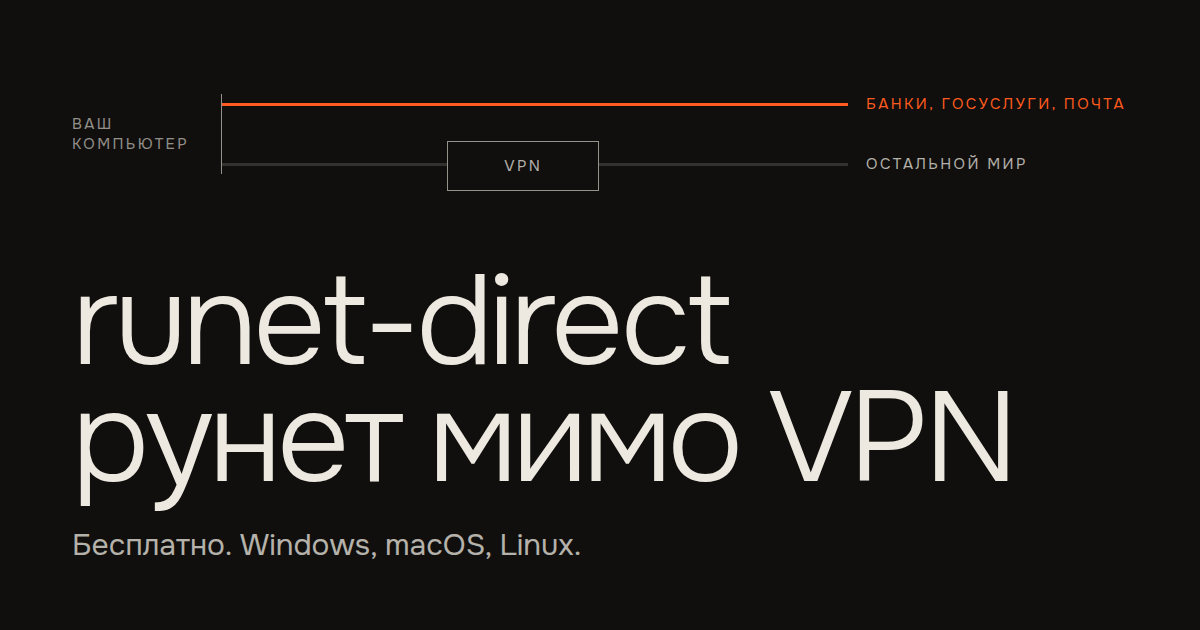
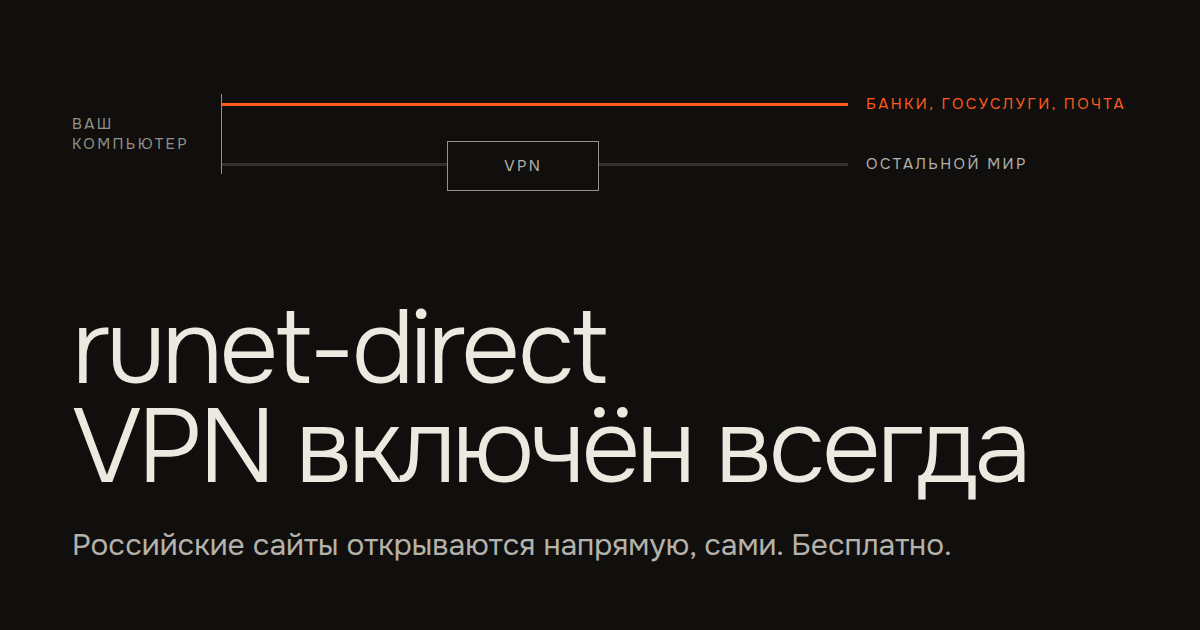
Lead with the real benefit: keep the VPN on all the time
The page, README, installer text, preview image and repository description
now say what the user gains: no switching the VPN off and on, no remembering
its state; foreign sites use the VPN, Russian sites open directly by themselves.

Changed region(s): [[0.0617, 0.4222, 0.8633, 0.8143], [0.0617, 0.8444, 0.8017, 0.9048]]

diff --git a/docs/site/index.html b/docs/site/index.html
@@ -3,8 +3,8 @@
 <head>
 <meta charset="utf-8">
 <meta name="viewport" content="width=device-width, initial-scale=1">
-<title>runet-direct — рунет мимо VPN</title>
-<meta name="description" content="Банки, Госуслуги, маркетплейсы и почта открываются напрямую, остальное идёт через VPN. Работает с любым VPN. Windows, macOS, Linux. Бесплатно, открытый код.">
+<title>runet-direct — VPN включён всегда, российские сайты работают</title>
+<meta name="description" content="Включили VPN и забыли: зарубежные сайты идут через VPN, российские напрямую. Банки, Госуслуги и почта работают сами. Windows, macOS, Linux. Бесплатно, открытый код.">
 <link rel="canonical" href="https://iresultman.github.io/runet-direct/">
 <link rel="alternate" hreflang="ru" href="https://iresultman.github.io/runet-direct/">
 <link rel="alternate" hreflang="en" href="https://iresultman.github.io/runet-direct/en/">
@@ -12,8 +12,8 @@
 <link rel="icon" href="favicon.svg" type="image/svg+xml">
 <meta name="theme-color" content="#100f0d">
 <meta property="og:type" content="website">
-<meta property="og:title" content="runet-direct — рунет мимо VPN">
-<meta property="og:description" content="Российские сайты открываются напрямую, остальное идёт через ваш VPN. Бесплатно, для Windows, macOS и Linux.">
+<meta property="og:title" content="runet-direct — VPN включён всегда, российские сайты работают">
+<meta property="og:description" content="Зарубежные сайты идут через VPN, российские напрямую. VPN не нужно выключать. Бесплатно, для Windows, macOS и Linux.">
 <meta property="og:url" content="https://iresultman.github.io/runet-direct/">
 <meta property="og:image" content="https://iresultman.github.io/runet-direct/og.png">
 <meta property="og:locale" content="ru_RU">
@@ -59,8 +59,8 @@
   </div>
 
   <div class="hero__copy">
-    <h1 id="top-title" class="rise" style="--d:420ms">runet-direct<br>рунет мимо VPN</h1>
-    <p class="lead rise" style="--d:900ms">Банки, Госуслуги и почта открываются напрямую. Всё остальное идёт через ваш VPN, какой бы он ни был.</p>
+    <h1 id="top-title" class="rise" style="--d:420ms">runet-direct<br>VPN включён всегда</h1>
+    <p class="lead rise" style="--d:900ms">Зарубежное идёт через VPN, российское напрямую. Банки, Госуслуги и почта открываются сами, VPN выключать не нужно.</p>
     <div class="cta rise" style="--d:1040ms">
       <a id="cta" class="btn btn--fill" href="#install"
          data-label-windows="Скачать для Windows" data-href-windows="https://github.com/iResultMan/runet-direct/releases/latest/download/runet-direct-setup-x86_64.exe"
@@ -75,6 +75,23 @@
       </a>
       <span class="note">Бесплатно, открытый код, 1,4 МБ</span>
     </div>
+  </div>
+</section>
+
+<section id="why" aria-labelledby="why-title">
+  <div class="split">
+    <div>
+      <h2 id="why-title" class="rise">Переключать VPN больше не нужно</h2>
+      <div class="prose rise" style="--d:100ms">
+        <p>Обычно приходится выбирать. С включённым VPN не открываются банки и Госуслуги или просят лишнее подтверждение. С выключенным не работают зарубежные сайты. Остаётся переключать VPN туда и обратно и помнить, что сейчас включено.</p>
+        <p>С runet-direct VPN включён всегда. Служба сама разводит трафик: российские адреса идут напрямую, всё остальное через VPN.</p>
+      </div>
+    </div>
+    <dl class="facts rise" style="--d:200ms;margin-top:0">
+      <div><dt>Банки, Госуслуги, почта</dt><dd>Открываются сразу, как при обычном интернете. VPN выключать не нужно.</dd></div>
+      <div><dt>Зарубежные сайты</dt><dd>Идут через VPN всё время, а не только пока вы не отключили его ради банка.</dd></div>
+      <div><dt>Что делаете вы</dt><dd>Ничего. Не нужно ни переключать VPN, ни помнить, включён ли он.</dd></div>
+    </dl>
   </div>
 </section>
 
@@ -183,6 +200,8 @@ Health:   <span class="ok">OK</span></pre>
 <section id="faq" aria-labelledby="faq-title">
   <h2 id="faq-title" class="rise">Вопросы</h2>
   <div class="faq rise" style="--d:100ms">
+    <details><summary>Нужно ли что-то включать и выключать вместе с VPN?</summary><div>
+      <p>Нет. Служба работает постоянно и не зависит от того, включён ли VPN в этот момент. Включили VPN один раз и забыли: российские сайты работают напрямую, остальные через него.</p></div></details>
     <details><summary>Безопасно ли это?</summary><div>
       <p>Программа не читает и не перехватывает трафик. Она только добавляет маршруты в таблицу системы и убирает их, когда вы её удаляете. Код открыт и лежит под лицензией MIT. У файлов релиза есть контрольные суммы и подтверждение происхождения сборки.</p></div></details>
     <details><summary>Куда программа ходит в сеть?</summary><div>

diff --git a/docs/site/en/index.html b/docs/site/en/index.html
@@ -3,8 +3,8 @@
 <head>
 <meta charset="utf-8">
 <meta name="viewport" content="width=device-width, initial-scale=1">
-<title>runet-direct — Russian sites outside your VPN</title>
-<meta name="description" content="Russian banks, government portals, marketplaces and mail open directly; everything else keeps using your VPN. Works with any VPN. Windows, macOS, Linux. Free and open source.">
+<title>runet-direct — keep your VPN on, Russian sites still work</title>
+<meta name="description" content="Turn the VPN on and forget it: foreign sites go through the VPN, Russian sites go direct. Banks, Gosuslugi and mail just work. Windows, macOS, Linux. Free and open source.">
 <link rel="canonical" href="https://iresultman.github.io/runet-direct/en/">
 <link rel="alternate" hreflang="ru" href="https://iresultman.github.io/runet-direct/">
 <link rel="alternate" hreflang="en" href="https://iresultman.github.io/runet-direct/en/">
@@ -12,8 +12,8 @@
 <link rel="icon" href="../favicon.svg" type="image/svg+xml">
 <meta name="theme-color" content="#100f0d">
 <meta property="og:type" content="website">
-<meta property="og:title" content="runet-direct — Russian sites outside your VPN">
-<meta property="og:description" content="Russian websites open directly, everything else keeps using your VPN. Free, for Windows, macOS and Linux.">
+<meta property="og:title" content="runet-direct — keep your VPN on, Russian sites still work">
+<meta property="og:description" content="Foreign sites go through the VPN, Russian sites go direct. You never switch the VPN off. Free, for Windows, macOS and Linux.">
 <meta property="og:url" content="https://iresultman.github.io/runet-direct/en/">
 <meta property="og:image" content="https://iresultman.github.io/runet-direct/og.png">
 <meta property="og:locale" content="en_US">
@@ -59,8 +59,8 @@
   </div>
 
   <div class="hero__copy">
-    <h1 id="top-title" class="rise" style="--d:420ms">runet-direct<br>Russian sites, no VPN</h1>
-    <p class="lead rise" style="--d:900ms">Russian banks, government portals and mail open directly. Everything else goes through your VPN, whichever VPN it is.</p>
+    <h1 id="top-title" class="rise" style="--d:420ms">runet-direct<br>VPN always on</h1>
+    <p class="lead rise" style="--d:900ms">Foreign sites go through the VPN, Russian sites go direct. Banks, Gosuslugi and mail open by themselves, no need to switch the VPN off.</p>
     <div class="cta rise" style="--d:1040ms">
       <a id="cta" class="btn btn--fill" href="#install"
          data-label-windows="Download for Windows" data-href-windows="https://github.com/iResultMan/runet-direct/releases/latest/download/runet-direct-setup-x86_64.exe"
@@ -75,6 +75,23 @@
       </a>
       <span class="note">Free, open source, 1.4 MB</span>
     </div>
+  </div>
+</section>
+
+<section id="why" aria-labelledby="why-title">
+  <div class="split">
+    <div>
+      <h2 id="why-title" class="rise">No more switching the VPN</h2>
+      <div class="prose rise" style="--d:100ms">
+        <p>Normally you have to choose. With the VPN on, banks and Gosuslugi do not open or ask for extra verification. With the VPN off, foreign sites stop working. So you switch it back and forth and try to remember what is on right now.</p>
+        <p>With runet-direct the VPN is always on. The service splits the traffic by itself: Russian addresses go direct, everything else goes through the VPN.</p>
+      </div>
+    </div>
+    <dl class="facts rise" style="--d:200ms;margin-top:0">
+      <div><dt>Banks, Gosuslugi, mail</dt><dd>They open at once, as on a plain connection. No need to turn the VPN off.</dd></div>
+      <div><dt>Foreign sites</dt><dd>They use the VPN all the time, not only until you switch it off for a bank.</dd></div>
+      <div><dt>What you do</dt><dd>Nothing. No switching the VPN, no remembering whether it is on.</dd></div>
+    </dl>
   </div>
 </section>
 
@@ -183,6 +200,8 @@ Health:   <span class="ok">OK</span></pre>
 <section id="faq" aria-labelledby="faq-title">
   <h2 id="faq-title" class="rise">Questions</h2>
   <div class="faq rise" style="--d:100ms">
+    <details><summary>Do I have to switch anything on or off together with the VPN?</summary><div>
+      <p>No. The service runs all the time and does not depend on whether the VPN is on at that moment. Turn the VPN on once and forget it: Russian sites go direct, the rest goes through it.</p></div></details>
     <details><summary>Is it safe?</summary><div>
       <p>The program does not read or intercept traffic. It only adds routes to the system table and removes them when you uninstall it. The code is open under the MIT license. Release files carry checksums and a build-provenance attestation.</p></div></details>
     <details><summary>Where does it connect?</summary><div>

diff --git a/docs/site/style.css b/docs/site/style.css
@@ -132,7 +132,7 @@ code, pre, kbd { font-family: var(--mono); font-size: 0.92em; }
 
 .hero__copy { display: grid; gap: 1.75rem; padding-top: clamp(1rem, 3svh, 2rem); }
 .hero__copy h1 { margin-left: -0.04em; }
-.lead { max-width: 36rem; font-size: clamp(1.0625rem, 1rem + 0.45vw, 1.375rem); line-height: 1.5; color: var(--color-text-2); }
+.lead { text-wrap: balance; max-width: 36rem; font-size: clamp(1.0625rem, 1rem + 0.45vw, 1.375rem); line-height: 1.5; color: var(--color-text-2); }
 .cta { display: flex; flex-wrap: wrap; align-items: center; gap: 1rem 1.5rem; }
 
 /* ---------- sections: no cards, no icons ---------- */
@@ -194,6 +194,12 @@ footer a { color: var(--color-text-2); }
 .js .draw::before { transform: scaleX(0); transition: transform 1100ms var(--ease) 500ms; }
 .js .draw.in::before { transform: scaleX(1); }
 
+@media (max-height: 720px) and (min-width: 861px) {
+  .hero__copy { gap: 1rem; padding-top: 0.5rem; }
+  h1 { font-size: clamp(2.2rem, min(7vw, 11svh), 6rem); }
+  .lanes { row-gap: 1rem; }
+  .lead { font-size: 1rem; }
+}
 @media (max-width: 860px) {
   .split, .cmds div, .facts div { grid-template-columns: 1fr; gap: 0.5rem; }
   .split { gap: 2rem; }

diff --git a/packaging/macos/resources/ru.lproj/welcome.html b/packaging/macos/resources/ru.lproj/welcome.html
@@ -1,6 +1,6 @@
 <html lang="ru"><head><meta charset="utf-8"></head><body style="font: 14px -apple-system, sans-serif; line-height: 1.5">
 <h2>runet-direct</h2>
-<p>Российские сайты пойдут напрямую, мимо VPN, а всё остальное продолжит работать через него.</p>
+<p>VPN можно держать включённым всегда: российские сайты пойдут напрямую, а всё остальное продолжит работать через него. Переключать VPN больше не нужно.</p>
 <p>Установка занимает меньше минуты. Программа сама запускается при загрузке Mac и сама чинит свои маршруты. Настраивать ничего не нужно.</p>
 <p>Потребуется доступ в интернет: один раз скачивается список российских адресов (около 18&nbsp;МБ).</p>
 </body></html>

diff --git a/packaging/macos/resources/en.lproj/welcome.html b/packaging/macos/resources/en.lproj/welcome.html
@@ -1,6 +1,6 @@
 <html lang="en"><head><meta charset="utf-8"></head><body style="font: 14px -apple-system, sans-serif; line-height: 1.5">
 <h2>runet-direct</h2>
-<p>Russian websites go straight out, bypassing your VPN, while everything else keeps using it.</p>
+<p>You can keep the VPN on all the time: Russian websites go straight out, while everything else keeps using the VPN. No more switching it off and on.</p>
 <p>Installation takes under a minute. The service starts with your Mac and repairs its own routes. There is nothing to configure.</p>
 <p>It needs an internet connection once: the list of Russian address blocks (about 18&nbsp;MB) is downloaded.</p>
 </body></html>

diff --git a/README.ru.md b/README.ru.md
@@ -5,7 +5,7 @@
 <h1 align="center">runet-direct</h1>
 
 <p align="center">
-  <b>Российские сайты открываются напрямую. Всё остальное идёт через ваш VPN.<br>Поставил и забыл.</b>
+  <b>VPN включён всегда. Российские сайты открываются напрямую, всё остальное идёт через VPN.<br>Поставил и забыл.</b>
 </p>
 
 <p align="center">
@@ -26,9 +26,12 @@
 ## В чём проблема
 
 Когда VPN включён, через него идёт *всё*, в том числе российские банки, Госуслуги, маркетплейсы и почта. Многие из них
-не пускают иностранные адреса, просят дополнительное подтверждение или просто грузятся медленнее. Отключить VPN ради
-них значит отключить его для всего остального. Раздельное туннелирование по приложениям не помогает, когда один
-браузер открывает оба мира.
+не пускают иностранные адреса, просят дополнительное подтверждение или просто грузятся медленнее. Приходится выключать
+VPN ради них, затем снова включать ради всего остального и помнить, в каком состоянии он сейчас. Раздельное
+туннелирование по приложениям не помогает, когда один браузер открывает оба мира.
+
+**С runet-direct ничего переключать не нужно.** VPN включён всегда: зарубежные сайты идут через него, российские
+открываются напрямую, сами.
 
 ## Что делает runet-direct
 

diff --git a/README.md b/README.md
@@ -5,7 +5,7 @@
 <h1 align="center">runet-direct</h1>
 
 <p align="center">
-  <b>Russian sites go straight out. Everything else goes through your VPN.<br>Install once, forget it.</b>
+  <b>Keep your VPN on all the time. Russian sites go straight out, everything else goes through the VPN.<br>Install once, forget it.</b>
 </p>
 
 <p align="center">
@@ -26,8 +26,12 @@
 ## The problem
 
 A VPN sends *everything* through its tunnel, including Russian banks, Gosuslugi, marketplaces and mail. Many of them
-refuse foreign addresses, ask for extra verification, or just load slowly. Turning the VPN off for them means turning
-it off for everything. Per-app split tunneling does not help when one browser opens both worlds.
+refuse foreign addresses, ask for extra verification, or just load slowly. So you switch the VPN off for them, then on
+again for everything else, and you keep having to remember which state it is in right now. Per-app split tunneling does
+not help when one browser opens both worlds.
+
+**With runet-direct you switch nothing.** The VPN stays on all the time: foreign sites go through it, Russian sites open
+directly, by themselves.
 
 ## What runet-direct does
 
